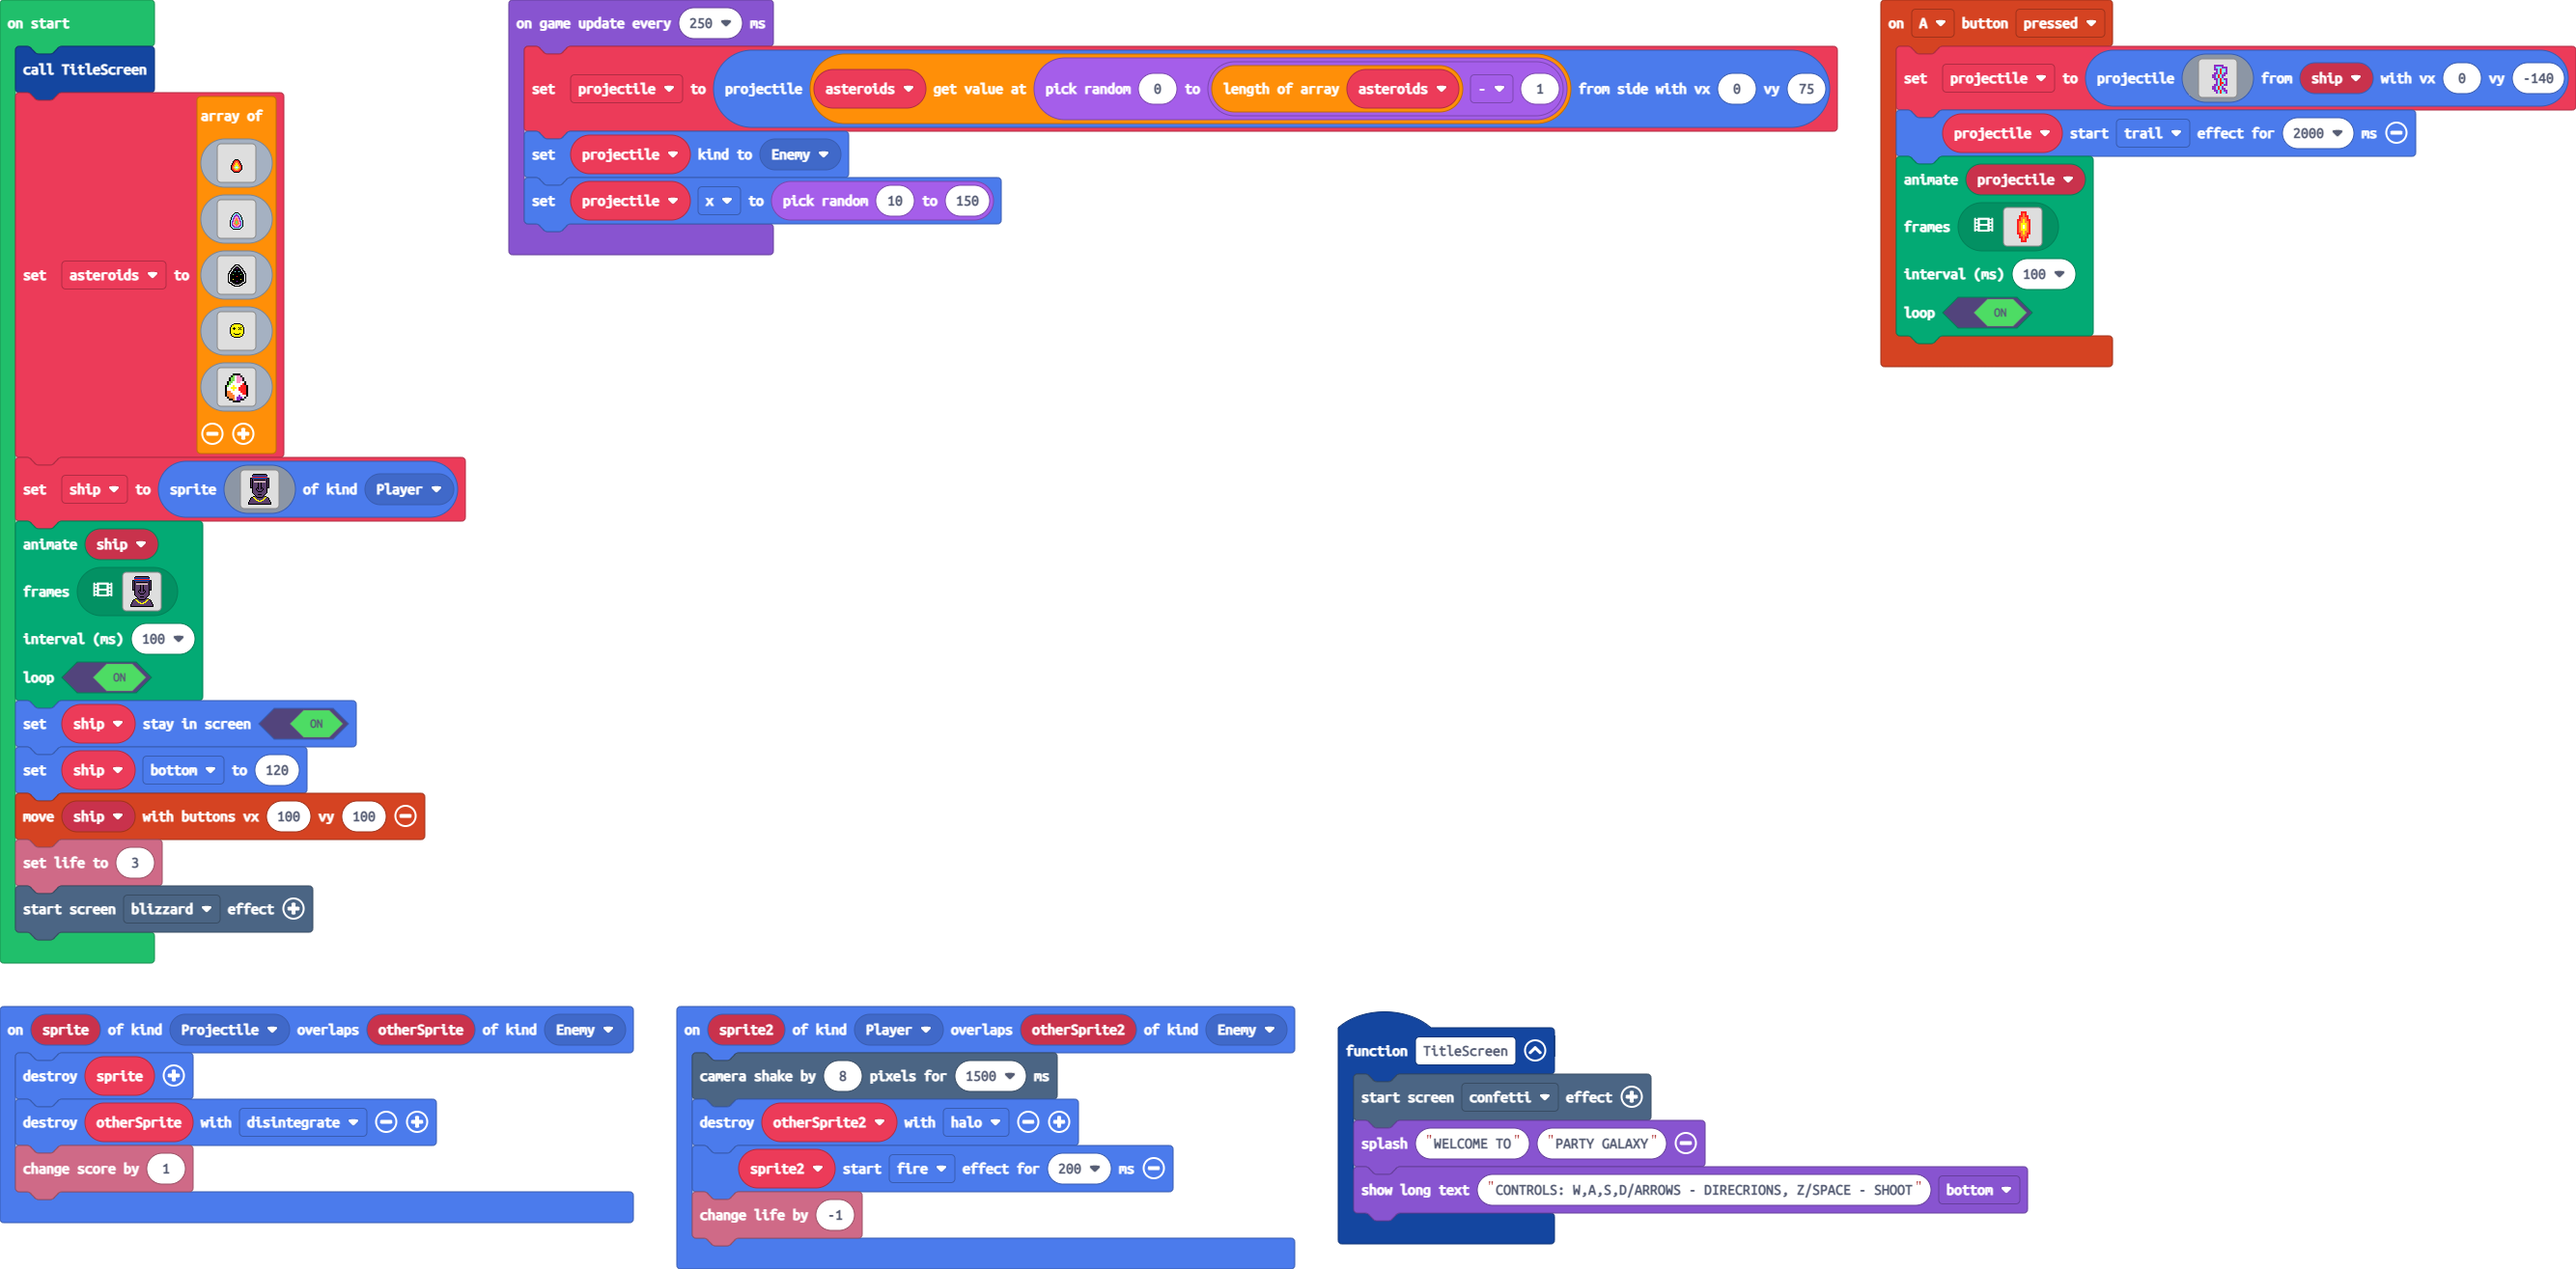
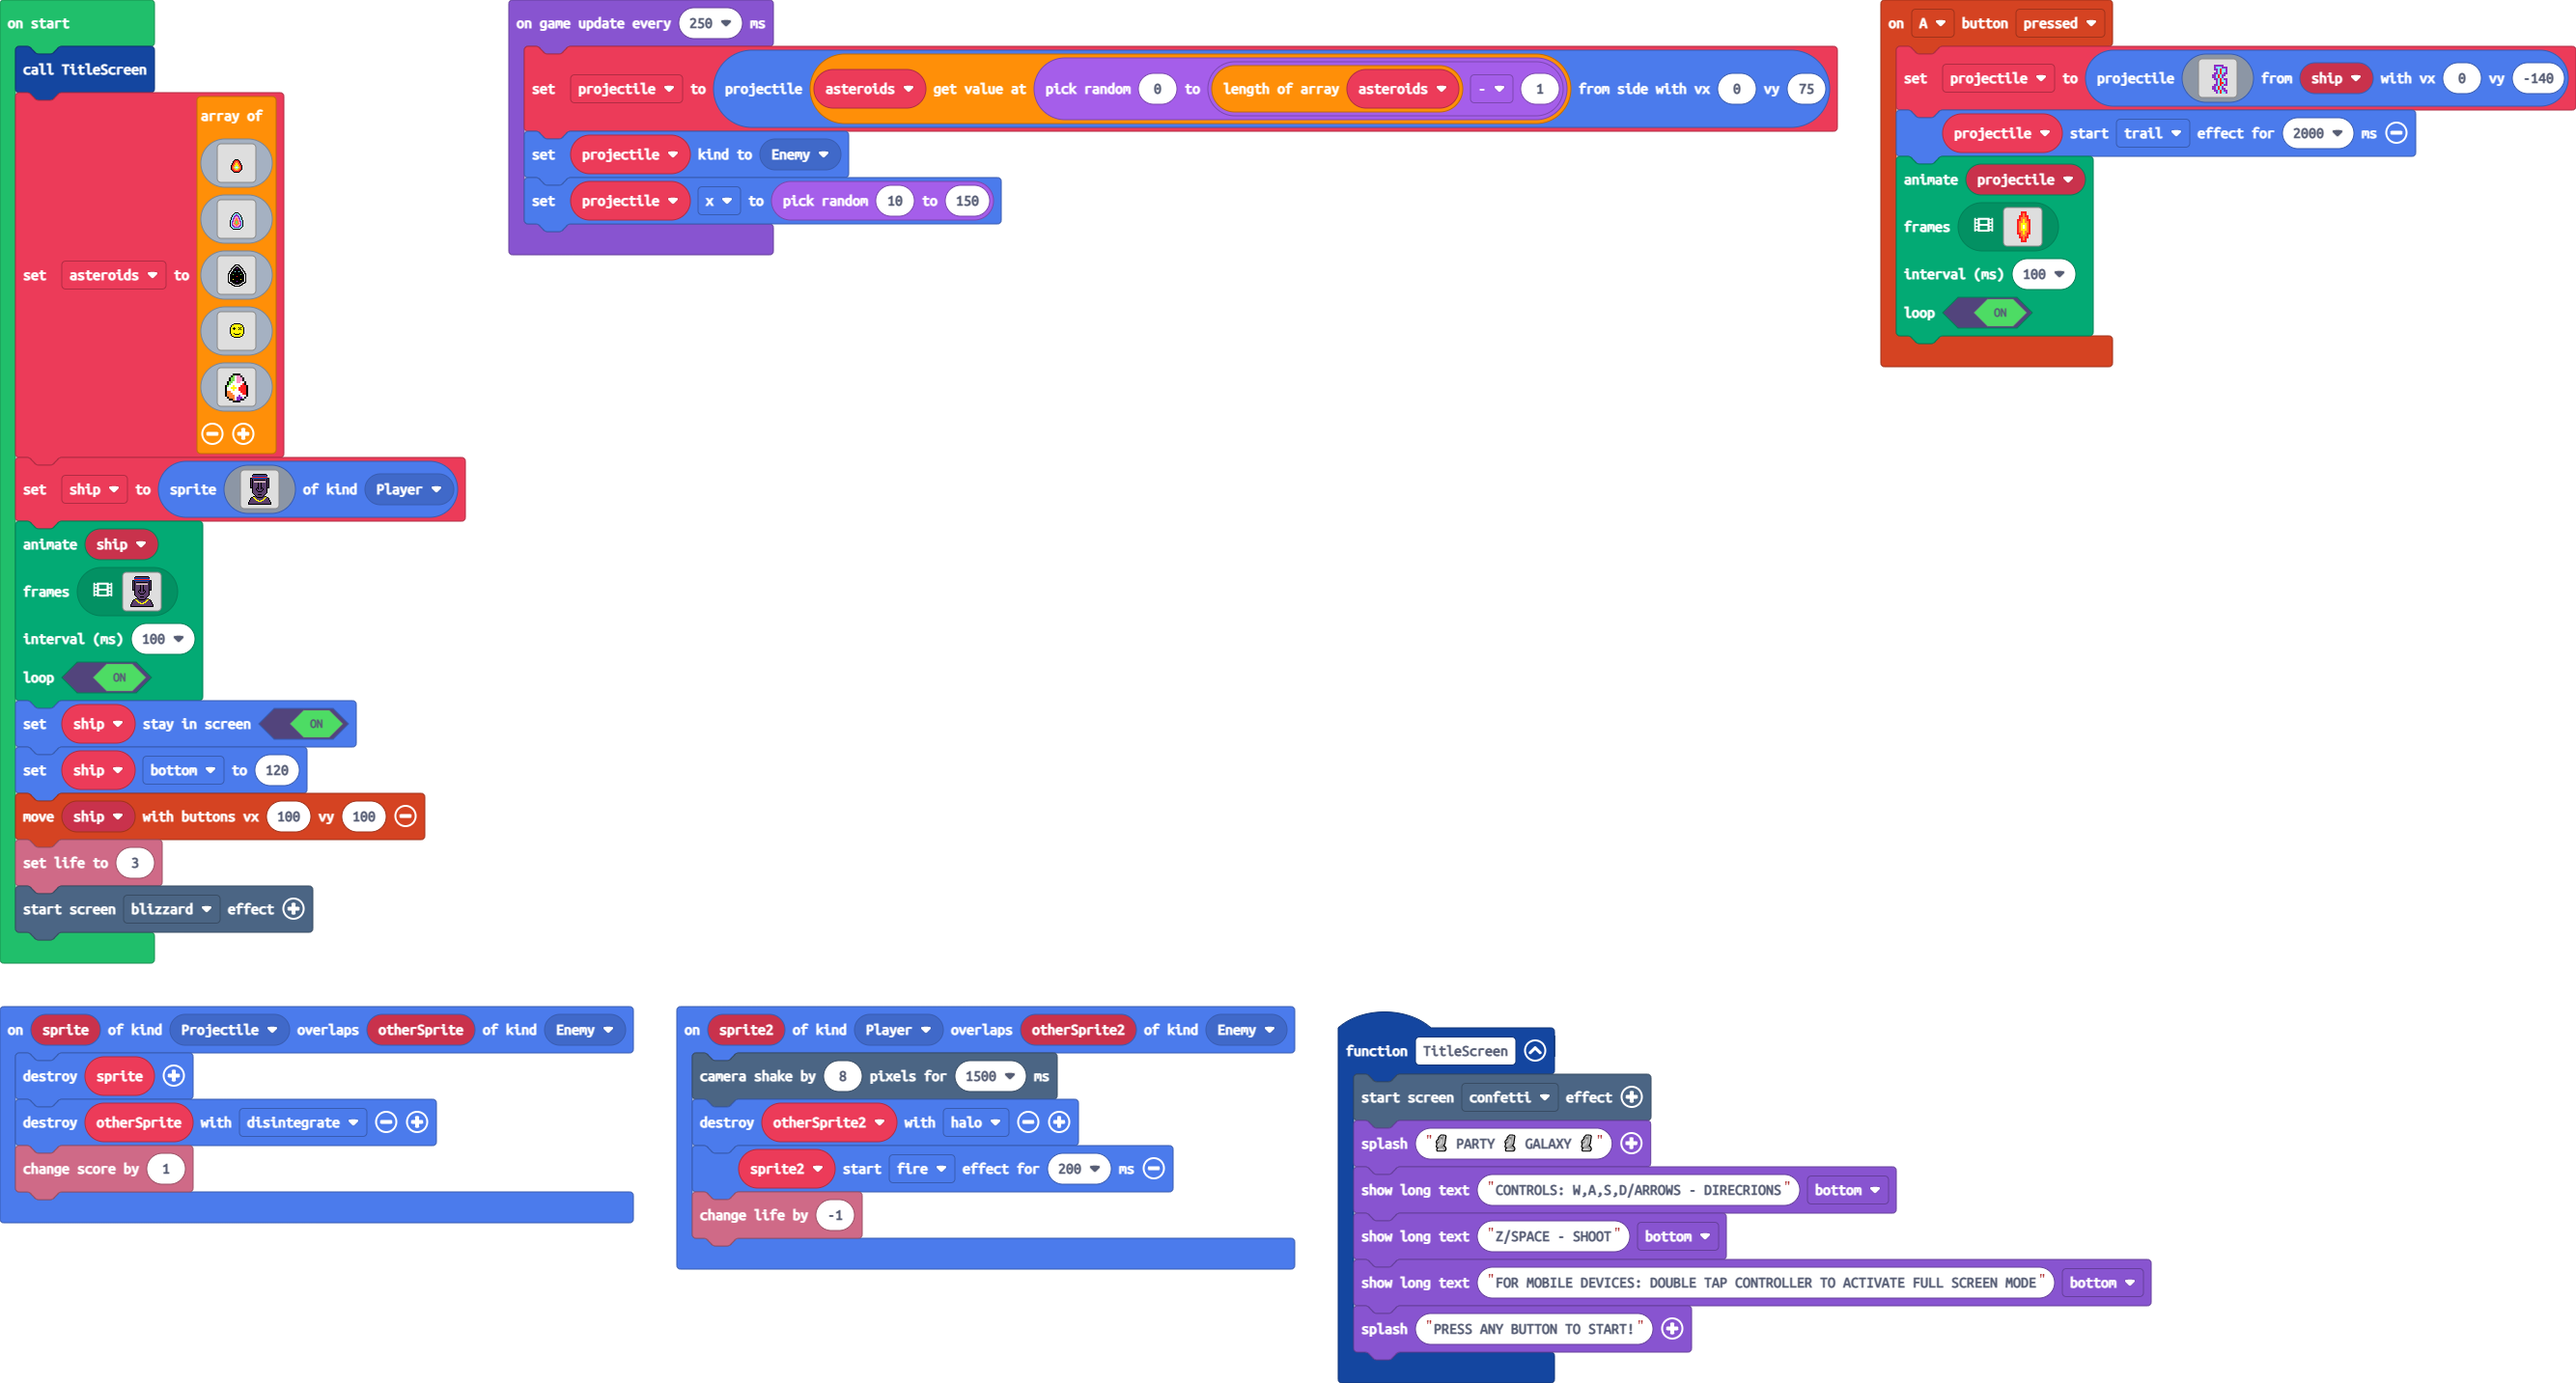
Update pxt.json, main.blocks, main.ts, images.g.jres, images.g.ts

Changed region(s): [[0.0, 0.0, 0.84, 1.0], [0.1867, 0.0, 1.0, 0.3118]]

diff --git a/images.g.ts b/images.g.ts
@@ -216,11 +216,337 @@ namespace myImages {
 . . . . . . a a 9 2 9 a a . . . 
 . . . . . . . a 9 2 9 9 a . . . 
 `;
+            case "image8":
+            case "myImage6":return img`
+................................
+................................
+................................
+................................
+................................
+................................
+................................
+................................
+................................
+................................
+................................
+................................
+................................
+................................
+................................
+................................
+................................
+................................
+................................
+................................
+................................
+................................
+................................
+................................
+................................
+................................
+................................
+................................
+................................
+................................
+................................
+................................
+`;
+            case "image9":
+            case "myImage7":return img`
+. . . . . . . . . . . . . . . . 
+. . . . . . . . . . . . . . . . 
+. . . . . . . . . . . . . . . . 
+. . . . . . . . . . . . . . . . 
+. . . . . . . . . . . . . . . . 
+. . . . . . . . . . . . . . . . 
+. . . . . . . . . . . . . . . . 
+. . . . . . . . . . . . . . . . 
+. . . . . . . . . . . . . . . . 
+. . . . . . . . . . . . . . . . 
+. . . . . . . . . . . . . . . . 
+. . . . . . . . . . . . . . . . 
+. . . . . . . . . . . . . . . . 
+. . . . . . . . . . . . . . . . 
+. . . . . . . . . . . . . . . . 
+. . . . . . . . . . . . . . . . 
+`;
         }
         return null;
     })
 
     helpers._registerFactory("animation", function(name: string) {
+        switch(helpers.stringTrim(name)) {
+            case "myAnim":
+            case "anim1":return [img`
+.........ffffffffffffff.........
+........fccccccccccccccf........
+........8888888888888888........
+........2222222222222222........
+......ff8888888888888888ff......
+......fcfccccccccccccccfcf......
+......fcfcffffffffffffcfcf......
+......fcfcbbbbbbbbbbbbcfcf......
+......fcfcddddddddddddcfcf......
+......fcfcccccfccfcccccfcf......
+......fcfcccccfccfcccccfcf......
+......fcfcccccfccfcccccfcf......
+......fcfcccccfccfcccccfcf......
+......fcfcccccfccfcccccfcf......
+......fffccccffccffccccfff......
+........fcccfcfccfcfcccf........
+........fcccfccccccfcccf........
+........fccccfccccfccccf........
+........fcccccffffcccccf........
+........fccccccccccccccf........
+.........fccccccccccccf.........
+..........fcccffffcccf..........
+...........fccccccccf...........
+.........ffcfccccccfcff.........
+.......ff55ccffffffcc55ff.......
+......fccc55cccccccc55cccf......
+......fcccc55cccccc55ccccf......
+.....fcccccc555cc555ccccccf.....
+.....fcccccccc5555ccccccccf.....
+....fccccccccccccccccccccccf....
+....fccccccccccccccccccccccf....
+....ffffffffffffffffffffffff....
+`, img`
+.........ffffffffffffff.........
+........fccccccccccccccf........
+........8888888888888888........
+........2222222222222222........
+........88888888888ff888........
+........fcccccccccfccfcf........
+........fffffffffcfccfcf........
+.........fbbbbbbbcfccfcf........
+..........fddddddcfccfcf........
+..........fcccccccfccfcf........
+..........fcccccccfccfcf........
+..........fcccccccfccfcf........
+..........fcccccccfccfcf........
+.........ffcccccccfccfcf........
+........fccccfcccccffccf........
+........fccccfcccccccccf........
+.........fffffcccccccccf........
+...........fcccccccccccf........
+..........fccccccccccccf........
+..........fccccccccccccf........
+..........ffffccccccccff........
+..........fccccccccccff.........
+..........fccccccccffff.........
+..........ffcccccffcc5ff........
+...........ffffffccc555ff.......
+............fccccc555cccff......
+..........fffcc55555cccccff.....
+.........ff5555555ccccccccf.....
+........ff555cccccccccccccff....
+.......ffccccccccccccccccccf....
+.......fcccccccccccccccccccf....
+.......fffffffffffffffffffff....
+`, img`
+.........ffffffffffffff.........
+........fccccccccccccccf........
+........8888888888888888........
+........2222222222222222........
+........8888888ff888888f........
+........fcccccfccfcccccf........
+........fcccccfccfcccccf........
+.........fccccfccfcccccf........
+..........fcccfccfcccccf........
+..........fcccfccfcccccf........
+.........ffcccfccfcccccf........
+.........fccccfccfcccccf........
+........ffccccfccfcccccf........
+........fcccccfccfcccccf........
+.......ffccccccffccccccf........
+......fccccccccccccccccf........
+......fcccfccccccccccccf........
+.......fffcccccccccccccf........
+.........fccccccccccccff........
+........ffcccccccccccff.........
+........fcccccccccccff..........
+........fffccccccccff...........
+........fccccccccffffff.........
+........fccccccfffcc55ff........
+........ffcccfffccc555cff.......
+.........fffffccc555ccccff......
+............fcc5555ccccccff.....
+..........ff55555cccccccccf.....
+.........f5555ccccccccccccff....
+........ffcccccccccccccccccf....
+........fccccccccccccccccccf....
+........ffffffffffffffffffff....
+`, img`
+.........ffffffffffffff.........
+........fccccccccccccccf........
+........8888888888888888........
+........2222222222222222........
+........88888ff888888888........
+........fcccfccfcccccccf........
+........ffccfccfcccccccf........
+.........fccfccfcccccccf........
+..........fcfccfcccccccf........
+..........fcfccfcccccccf........
+..........fcfccfcccccccf........
+..........fcfccfcccccccf........
+..........fcfccfcccccccf........
+..........fcfccfcccccccf........
+.........fcccffccccccccf........
+........fccccccccccccccf........
+........fccccccccccccccf........
+.........ffccccccccccccf........
+..........fccccccccccccf........
+..........fccccccccccccf........
+..........ffcccccccccccf........
+..........fccccccccccccf........
+...........fccccccccccf.........
+...........fffcccffcccff........
+.............ffffcc5555ff.......
+...........fffccc5555cccff......
+..........ff5555555ccccccff.....
+.........f55555cccccccccccf.....
+........ffccccccccccccccccff....
+........fccccccccccccccccccf....
+........fccccccccccccccccccf....
+........ffffffffffffffffffff....
+`, img`
+.........ffffffffffffff.........
+........fccccccccccccccf........
+........8888888888888888........
+........2222222222222222........
+......ff8888888888888888ff......
+......fcfccccccccccccccfcf......
+......fcfccccccccccccccfcf......
+......fcfccccccccccccccfcf......
+......fcfccccccccccccccfcf......
+......fcfccccccccccccccfcf......
+......fcfccccccccccccccfcf......
+......fcfccccccccccccccfcf......
+......fcfccccccccccccccfcf......
+......fcfccccccccccccccfcf......
+......fffccccccccccccccfff......
+........fccccccccccccccf........
+........fccccccccccccccf........
+........fccccccccccccccf........
+........fccccccccccccccf........
+........fccccccccccccccf........
+.........fccccccccccccf.........
+..........fccccccccccf..........
+...........fccccccccf...........
+.........ffccccccccccff.........
+.......ff555cccccccc555ff.......
+......fccc555555555555cccf......
+......fccccccccccccccccccf......
+.....fccccccccccccccccccccf.....
+.....fccccccccccccccccccccf.....
+....fccccccccccccccccccccccf....
+....fccccccccccccccccccccccf....
+....ffffffffffffffffffffffff....
+`, img`
+.........ffffffffffffff.........
+........fccccccccccccccf........
+........8888888888888888........
+........2222222222222222........
+........888888888ff88888........
+........fcccccccfccfcccf........
+........fcccccccfccfccff........
+........fcccccccfccfccf.........
+........fcccccccfccfcf..........
+........fcccccccfccfcf..........
+........fcccccccfccfcf..........
+........fcccccccfccfcf..........
+........fcccccccfccfcf..........
+........fcccccccfccfcf..........
+........fccccccccffcccf.........
+........fccccccccccccccf........
+........fccccccccccccccf........
+........fccccccccccccff.........
+........fccccccccccccf..........
+........fccccccccccccf..........
+........fcccccccccccff..........
+........fccccccccccccf..........
+.........fccccccccccf...........
+........ffcccffcccfff...........
+.......ff5555ccffff.............
+......ffccc5555cccfff...........
+.....ffcccccc5555555ff..........
+.....fccccccccccc55555f.........
+....ffccccccccccccccccff........
+....fccccccccccccccccccf........
+....fccccccccccccccccccf........
+....ffffffffffffffffffff........
+`, img`
+.........ffffffffffffff.........
+........fccccccccccccccf........
+........8888888888888888........
+........2222222222222222........
+........f888888ff8888888........
+........fcccccfccfcccccf........
+........fcccccfccfcccccf........
+........fcccccfccfccccf.........
+........fcccccfccfcccf..........
+........fcccccfccfcccf..........
+........fcccccfccfcccff.........
+........fcccccfccfccccf.........
+........fcccccfccfccccff........
+........fcccccfccfcccccf........
+........fccccccffccccccff.......
+........fccccccccccccccccf......
+........fccccccccccccfcccf......
+........fcccccccccccccfff.......
+........ffccccccccccccf.........
+.........ffcccccccccccff........
+..........ffcccccccccccf........
+...........ffccccccccfff........
+.........ffffffccccccccf........
+........ff55ccfffccccccf........
+.......ffc555cccfffcccff........
+......ffcccc555cccfffff.........
+.....ffcccccc5555ccf............
+.....fccccccccc55555ff..........
+....ffcccccccccccc5555f.........
+....fcccccccccccccccccff........
+....fccccccccccccccccccf........
+....ffffffffffffffffffff........
+`, img`
+.........ffffffffffffff.........
+........fccccccccccccccf........
+........8888888888888888........
+........2222222222222222........
+........888ff88888888888........
+........fcfccfcccccccccf........
+........fcfccfcfffffffff........
+........fcfccfcbbbbbbbf.........
+........fcfccfcddddddf..........
+........fcfccfcccccccf..........
+........fcfccfcccccccf..........
+........fcfccfcccccccf..........
+........fcfccfcccccccf..........
+........fcfccfcccccccff.........
+........fccffcccccfccccf........
+........fcccccccccfccccf........
+........fcccccccccfffff.........
+........fcccccccccccf...........
+........fccccccccccccf..........
+........fccccccccccccf..........
+........ffccccccccffff..........
+.........ffccccccccccf..........
+.........ffffccccccccf..........
+........ff5ccffcccccff..........
+.......ff555cccffffff...........
+......ffccc555cccccf............
+.....ffccccc55555ccfff..........
+.....fcccccccc5555555ff.........
+....ffccccccccccccc555ff........
+....fccccccccccccccccccff.......
+....fcccccccccccccccccccf.......
+....fffffffffffffffffffff.......
+`];
+        }
+        return null;
+    })
+
+    helpers._registerFactory("song", function(name: string) {
         switch(helpers.stringTrim(name)) {
 
         }

diff --git a/main.ts b/main.ts
@@ -1,7 +1,10 @@
 function TitleScreen () {
     effects.confetti.startScreenEffect()
-    game.splash("WELCOME TO", "PARTY GALAXY")
-    game.showLongText("CONTROLS: W,A,S,D/ARROWS - DIRECRIONS, Z/SPACE - SHOOT", DialogLayout.Bottom)
+    game.splash("🗿 PARTY 🗿 GALAXY 🗿")
+    game.showLongText("CONTROLS: W,A,S,D/ARROWS - DIRECRIONS", DialogLayout.Bottom)
+    game.showLongText("Z/SPACE - SHOOT", DialogLayout.Bottom)
+    game.showLongText("FOR MOBILE DEVICES: DOUBLE TAP CONTROLLER TO ACTIVATE FULL SCREEN MODE", DialogLayout.Bottom)
+    game.splash("PRESS ANY BUTTON TO START!")
 }
 controller.A.onEvent(ControllerButtonEvent.Pressed, function () {
     projectile = sprites.createProjectileFromSprite(assets.image`myImage0`, ship, 0, -140)
